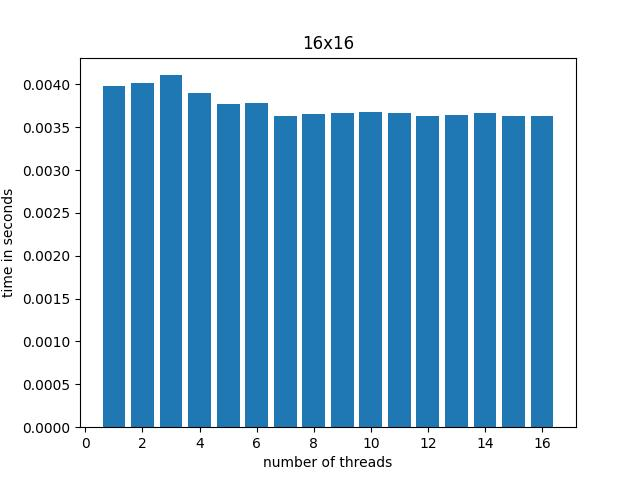
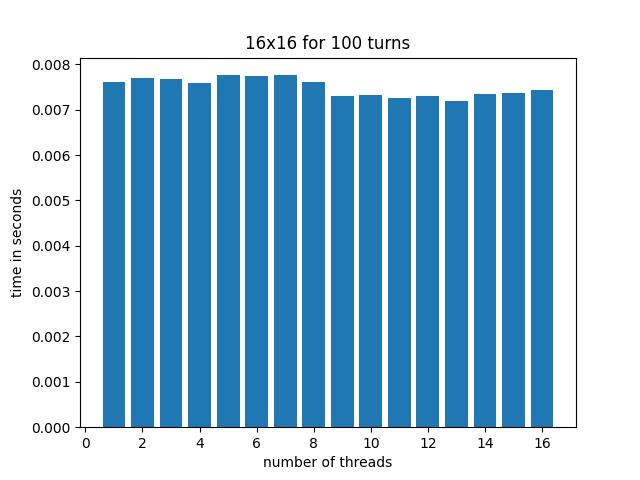
naming change

diff --git a/benchmark/plot.py b/benchmark/plot.py
@@ -28,16 +28,27 @@ def getTimeTaken(line):
     index = line.index(" ns/op") - 1
     # read numbers in backwards until whitespace
     number = ""
-    while (line[index] != ' '):
+    while (line[index] >= '0' and line[index] <= '9'):
         number = line[index] + number
         index -= 1
     return int(number)
 
-def plot(imageSize, threadTimeDict):
+def getTurns(line):
+    # find index just after "turns="
+    index = line.index("turns=") + 6
+    # get number
+    number = ""
+    while line[index] != '_':
+        number += line[index]
+        index += 1
+    return int(number)
+    
+    
+def plot(imageSize, threadTimeDict, turns):
     threads = threadTimeDict.keys()
     time = threadTimeDict.values()
     plt.bar(threads, time)
-    title = "{imageSize}x{imageSize}".format(imageSize=imageSize)
+    title = "{imageSize}x{imageSize} for {turns} turns".format(imageSize=imageSize, turns=turns)
     plt.title(title)
     fname = "{imageSize}x{imageSize}.jpg".format(imageSize=imageSize)
     plt.xlabel("number of threads")
@@ -60,8 +71,8 @@ def main():
         # get image-size and thread count
         # make maps for each image-size of thread-count: time taken
         # plot maps
-        
-        imageSizesMap = dict()
+    turns = getTurns(lines[0])
+    imageSizesMap = dict()
     for line in lines:
         imageSize = getImageSize(line)
         threadCount = getThreadCount(line)
@@ -73,7 +84,7 @@ def main():
         imageSizesMap[imageSize][threadCount] = floatTimeTaken
     
     for key, value in imageSizesMap.items():
-        plot(key, value)
+        plot(key, value, turns)
         print()
 
 

diff --git a/bench_test.go b/bench_test.go
@@ -8,7 +8,7 @@ import (
 )
 
 func BenchmarkLocal(b *testing.B) {
-	turns := 1
+	turns := 100
 	threadConfs := []int{1, 2, 3, 4, 5, 6, 7, 8, 9, 10, 11, 12, 13, 14, 15, 16}
 	imageConfs := []int{16, 64, 128, 256, 512}
 
@@ -20,7 +20,7 @@ func BenchmarkLocal(b *testing.B) {
 				ImageWidth:  imageSize,
 				ImageHeight: imageSize,
 			}
-			name := fmt.Sprintf("size=%dx%d_threads=%d_", imageSize, imageSize, threads)
+			name := fmt.Sprintf("size=%dx%d_threads=%d_turns=%d_", imageSize, imageSize, threads, turns)
 			b.Run(name, func(b *testing.B) {
 				benchmark(b, p)
 			})

diff --git a/README.md b/README.md
@@ -3,6 +3,6 @@
 go run server.go
 then
 In separate terminal:
-go test -run=^$ -bench ^BenchmarkLocal$ > benchmark/benchmark.txt
+go test -run=^$ -bench ^BenchmarkLocal$ -benchtime=1x > benchmark/benchmark.txt
 cd benchmark
 python3 plot.py
